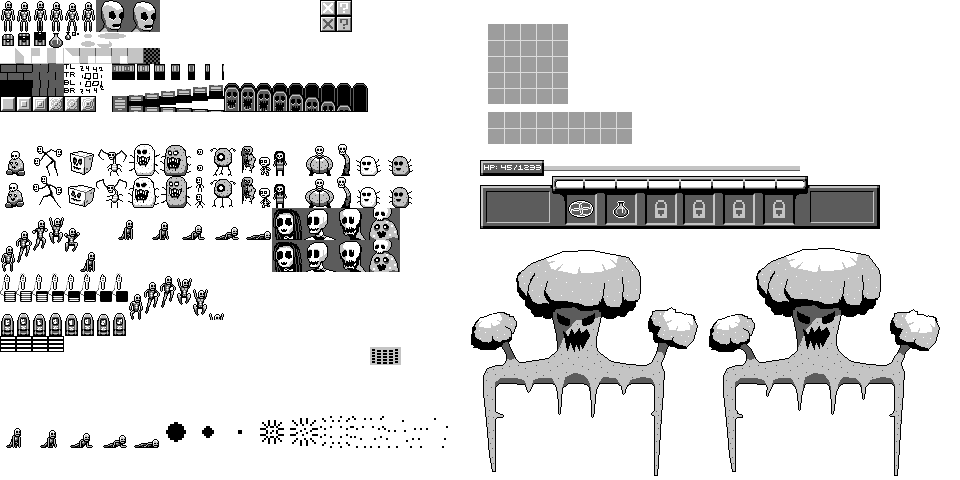
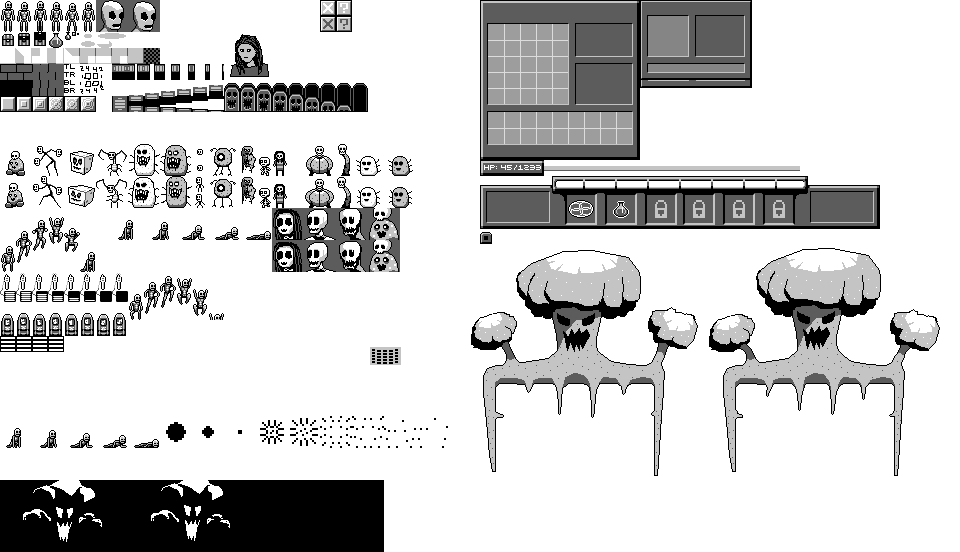
added cinematic sequences

diff --git a/src/ui/menus.py b/src/ui/menus.py
@@ -3,7 +3,7 @@ import random
 from src.game import spriteref as spriteref, inputs as inputs
 from src.items import item as item_module
 from src.ui.tooltips import TooltipFactory
-from src.ui.ui import HealthBarPanel, InventoryPanel, TextImage, ItemImage, DialogPanel
+from src.ui.ui import HealthBarPanel, InventoryPanel, CinematicPanel, TextImage, ItemImage, DialogPanel
 from src.utils.util import Utils
 from src.world.entities import ItemEntity, PickupEntity
 
@@ -13,6 +13,7 @@ class MenuManager:
     DEATH_MENU = 0
     IN_GAME_MENU = 1
     START_MENU = 2
+    CINEMATIC_MENU = 3
 
     def __init__(self, menu_id):
         self._active_menu = self._get_menu(menu_id)
@@ -39,6 +40,8 @@ class MenuManager:
             return InGameUiState()
         elif menu_id == MenuManager.START_MENU:
             return StartMenu()
+        elif menu_id == MenuManager.CINEMATIC_MENU:
+            return CinematicMenu()
         raise ValueError("Unknown menu id: " + str(menu_id))
 
     def should_draw_world(self):
@@ -66,8 +69,7 @@ class Menu:
         return self._menu_type
 
     def update(self, world, gs, input_state, render_eng):
-        state = gs.get_in_game_ui_state()
-        state.update(world, gs, input_state, render_eng)
+        pass
 
     def all_bundles(self):
         tooltip = self.get_active_tooltip()
@@ -192,6 +194,70 @@ class StartMenu(Menu):
             if opt_img is not None:
                 for bun in opt_img.all_bundles():
                     yield bun
+
+
+class CinematicMenu(Menu):
+
+    def __init__(self):
+        Menu.__init__(self, MenuManager.CINEMATIC_MENU)
+        self._next_menu = MenuManager.IN_GAME_MENU
+        self.active_scene = None
+
+        self.letter_reveal_speed = 3
+        self.active_tick_count = 0  # how many ticks the current cinematic has been showing
+
+        self.cinematic_panel = None
+
+    def update(self, world, gs, input_state, render_eng):
+        if self.active_scene is None:
+            cine_queue = gs.get_cinematics_queue()
+            if len(cine_queue) == 0:
+                gs.get_menu_manager().set_active_menu(self._next_menu)
+                return
+            else:
+                self.active_scene = cine_queue.pop(0)
+                self.active_tick_count = 0
+
+        if self.active_scene is not None:
+            if self.cinematic_panel is None:
+                self.cinematic_panel = CinematicPanel()
+
+            img_idx = (gs.anim_tick // 2) % len(self.active_scene.images)
+            current_image = self.active_scene.images[img_idx]
+            num_chars_to_display = 1 + self.active_tick_count // self.letter_reveal_speed
+            text_finished_scrolling = len(self.active_scene.text) <= num_chars_to_display
+            full_text = self.active_scene.text
+
+            if text_finished_scrolling:
+                current_text = full_text
+            else:
+                current_text = full_text[0:num_chars_to_display]
+
+            self.cinematic_panel.update(gs, render_eng, current_image, current_text)
+
+            if self.active_tick_count > 10 and input_state.was_pressed(inputs.INTERACT):
+                if text_finished_scrolling:
+                    self.active_scene = None
+                else:
+                    self.active_tick_count = len(full_text) * self.letter_reveal_speed
+
+            self.active_tick_count += 1
+
+        for bun in self.all_bundles():
+            render_eng.update(bun)
+
+    def get_clear_color(self):
+        return (0.0, 0.0, 0.0)
+
+    def set_next_menu(self, next_menu_id):
+        self._next_menu = next_menu_id
+
+    def all_bundles(self):
+        for bun in Menu.all_bundles(self):
+            yield bun
+        if self.cinematic_panel is not None:
+            for bun in self.cinematic_panel.all_bundles():
+                yield bun
 
 
 class DeathMenu(Menu):
@@ -424,7 +490,6 @@ class InGameUiState(Menu):
 
         if self.dialog_panel is not None:
             self.dialog_panel.update(gs, render_eng)
-
 
     def _update_inventory_panel(self, world, gs, input_state, render_eng):
         if gs.player_state().is_dead():

diff --git a/src/world/entities.py b/src/world/entities.py
@@ -8,6 +8,8 @@ import src.game.spriteref as spriteref
 from src.world.worldstate import World
 from src.utils.util import Utils
 from src.game.loot import LootFactory
+from src.game.cinematics import Cinematic
+
 import src.game.npc as npc
 
 ENTITY_UID_COUNTER = 0
@@ -1039,6 +1041,9 @@ class BossExitEntity(Entity):
         self.open_duration = 60
         self.radius = 48
 
+        self._was_interacted_with = False
+        self._interact_countdown = 15
+
     def update_images(self, anim_tick):
         if self._img is None:
             self._img = img.ImageBundle(None, 0, 0, layer=spriteref.ENTITY_LAYER, scale=4)
@@ -1071,8 +1076,31 @@ class BossExitEntity(Entity):
                         self.count -= 2
                     self.count = Utils.bound(self.count, 0, self.open_duration)
             else:
-                #  deal with being interacted w/ and stuff
-                pass
+                if self._was_interacted_with:
+                    player = world.get_player()
+                    if player is not None:
+                        pass  # TODO - setup dummy player + walking animation
+                    if self._interact_countdown > 1:
+                        self._interact_countdown -= 1
+                    else:
+                        # TODO - make the next world
+                        gs.next_level()
+
+                        cine_queue = gs.get_cinematics_queue()
+                        cine_queue.clear()
+
+                        sample_cines = [
+                            Cinematic([spriteref.cine_blank], "it's very dark, but you can sense that you aren't alone"),
+                            Cinematic([spriteref.cine_blank], "your eyes begin to adjust to the darkness"),
+                            Cinematic(spriteref.cine_cave_horrors, ""),
+                            Cinematic(spriteref.cine_cave_horrors,
+                                      "you've entered the cave horror's lair. prepare to fight")
+                        ]
+
+                        cine_queue.extend(sample_cines)
+
+                        from src.ui.menus import MenuManager  # this is temporary don't @ me
+                        gs.get_menu_manager().set_active_menu(MenuManager.CINEMATIC_MENU)
 
         self.update_images(gs.anim_tick)
 
@@ -1080,7 +1108,7 @@ class BossExitEntity(Entity):
         return self.is_open()
 
     def interact(self, world, gs):
-        pass
+        self._was_interacted_with = True
 
 
 class NpcEntity(Entity):

diff --git a/src/ui/ui.py b/src/ui/ui.py
@@ -541,3 +541,48 @@ class ItemImage:
     def calc_size(item, scale):
         sprite = spriteref.item_piece_bigs[0]
         return (scale*sprite.width()*item.w(), scale*sprite.height()*item.h())
+
+
+class CinematicPanel:
+
+    IMAGE_SCALE = 6
+    TEXT_SCALE = 3
+
+    def __init__(self):
+        self.current_image_img = None
+        self.current_text = ""
+        self.text_img = None
+        self.border = 32
+
+    def update(self, gs, render_engine, new_sprite, new_text):
+        scale = CinematicPanel.IMAGE_SCALE
+        if self.current_image_img is None:
+            self.current_image_img = ImageBundle.new_bundle(spriteref.UI_0_LAYER, scale)
+
+        image_w = new_sprite.width() * scale
+        new_x = gs.screen_size[0] // 2 - image_w // 2
+        new_y = 0 + self.border
+        self.current_image_img = self.current_image_img.update(new_model=new_sprite, new_x=new_x, new_y=new_y)
+
+        if new_text != self.current_text:
+            if self.text_img is not None:
+                for bun in self.text_img.all_bundles():
+                    render_engine.remove(bun)
+                self.text_img = None
+
+        if self.text_img is None and new_text != "":
+            text_scale = CinematicPanel.TEXT_SCALE
+            text_w = gs.screen_size[0] - self.border*2
+            text_x = self.border
+            text_h = gs.screen_size[1] // 4 - self.border
+            text_y = gs.screen_size[1] - text_h - self.border
+            wrapped_text = TextImage.wrap_words_to_fit(new_text, text_scale, text_w)
+            self.text_img = TextImage(text_x, text_y, wrapped_text, spriteref.UI_0_LAYER, scale=text_scale, y_kerning=4)
+            self.current_text = new_text
+
+    def all_bundles(self):
+        if self.current_image_img is not None:
+            yield self.current_image_img
+        if self.text_img is not None:
+            for bun in self.text_img.all_bundles():
+                yield bun

diff --git a/src/game/globalstate.py b/src/game/globalstate.py
@@ -31,6 +31,8 @@ class GlobalState:
         self._npc_state = NpcState()
         self._dialog_manager = DialogManager()
 
+        self._cinematics_queue = []
+
         self.needs_exit = False
 
     def get_menu_manager(self):
@@ -47,6 +49,9 @@ class GlobalState:
         
     def set_player_state(self, state):
         self._player_state = state
+
+    def get_cinematics_queue(self):
+        return self._cinematics_queue
         
     def player_state(self):
         return self._player_state

diff --git a/src/renderengine/img.py b/src/renderengine/img.py
@@ -122,6 +122,11 @@ class ImageBundle:
         i = 0 if len(indices) == 0 else indices[-1] + 1
         indices.extend([i, i+1, i+2, i, i+2, i+3])
 
+    def __repr__(self):
+        return "ImageBundle({}, {}, {}, {}, {}, {}, {}, {}, {})".format(
+                self.model(), self.x(), self.y(), self.layer(),
+                self.scale(), self.depth(), self.xflip(), self.color(), self.uid())
+
 
 class ImageModel:
 

diff --git a/cubelike.py b/cubelike.py
@@ -9,6 +9,7 @@ from src.game.inventory import InventoryState
 from src.game.actorstate import PlayerState
 from src.renderengine.engine import RenderEngine
 import src.game.debug as debug
+from src.game.cinematics import Cinematic
 
 from src.game.dialog import Dialog
 from src.game.messages import Messages

diff --git a/src/game/spriteref.py b/src/game/spriteref.py
@@ -123,6 +123,9 @@ inv_panel_top = make(480, 0, 160, 128)
 inv_panel_mid = make(480, 128, 160, 16)
 inv_panel_bot = make(480, 144, 160, 16)
 
+cine_blank = make(256, 480, 128, 72)
+cine_cave_horrors = [make(0 + 128*i, 480, 128, 72) for i in range(0, 2)]
+
 """
 0 1 2
 3 4 5

diff --git a/src/game/bosses.py b/src/game/bosses.py
@@ -45,7 +45,7 @@ class CaveHorrorController(BossFightController):
         w.add(Player(0, 0), gridcell=(2, 2), next_update=False)
 
         return w
-    
+
 
 def get_boss_controller(boss_id):
     if boss_id == BossID.CAVE_HORROR:

diff --git a/src/game/cinematics.py b/src/game/cinematics.py
@@ -1,0 +1,7 @@
+
+
+class Cinematic:
+
+    def __init__(self, images, text):
+        self.images = images
+        self.text = text
